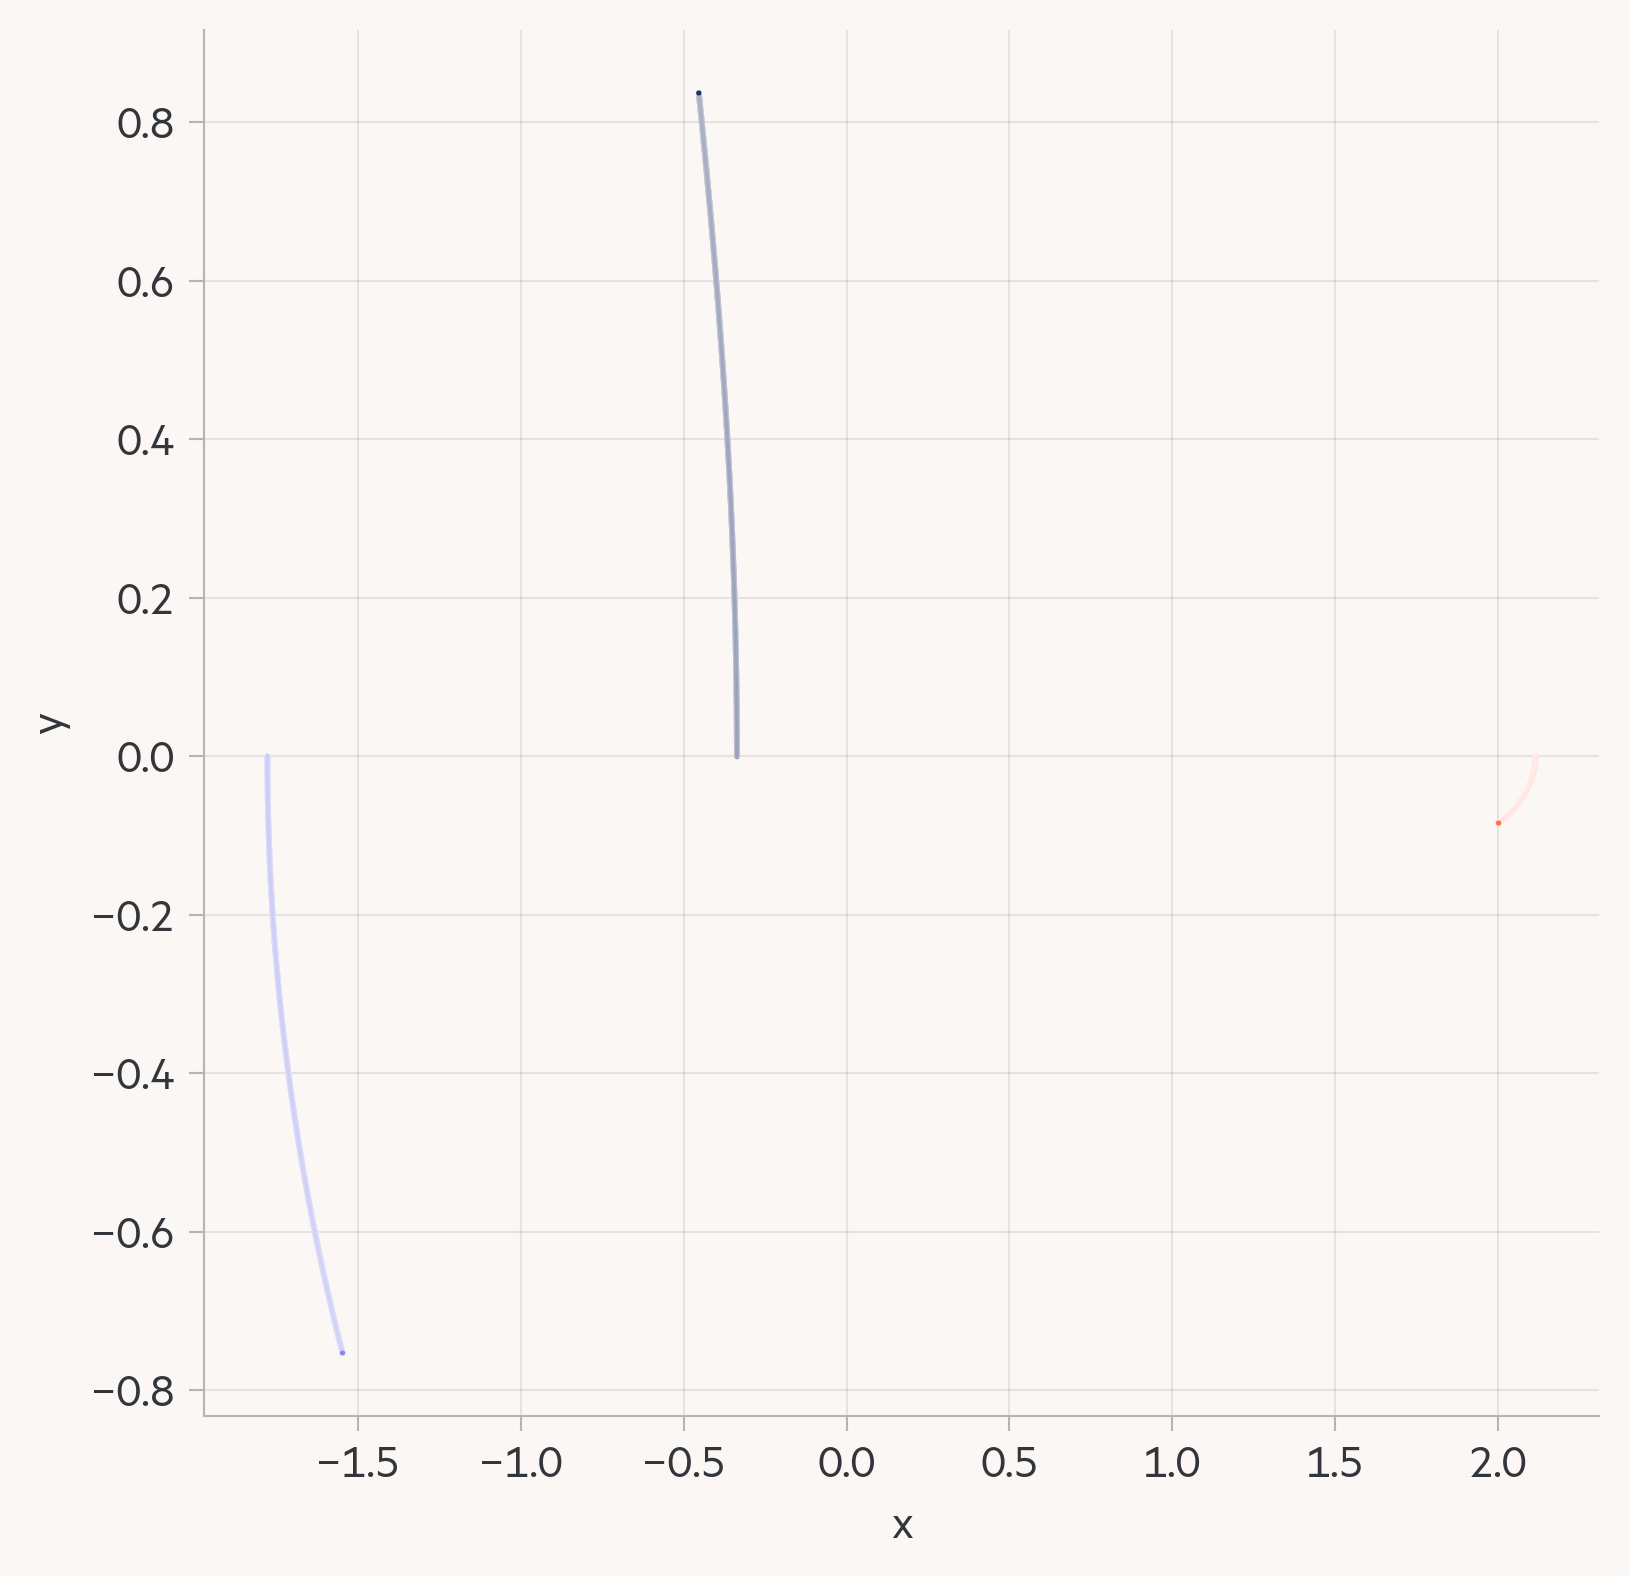
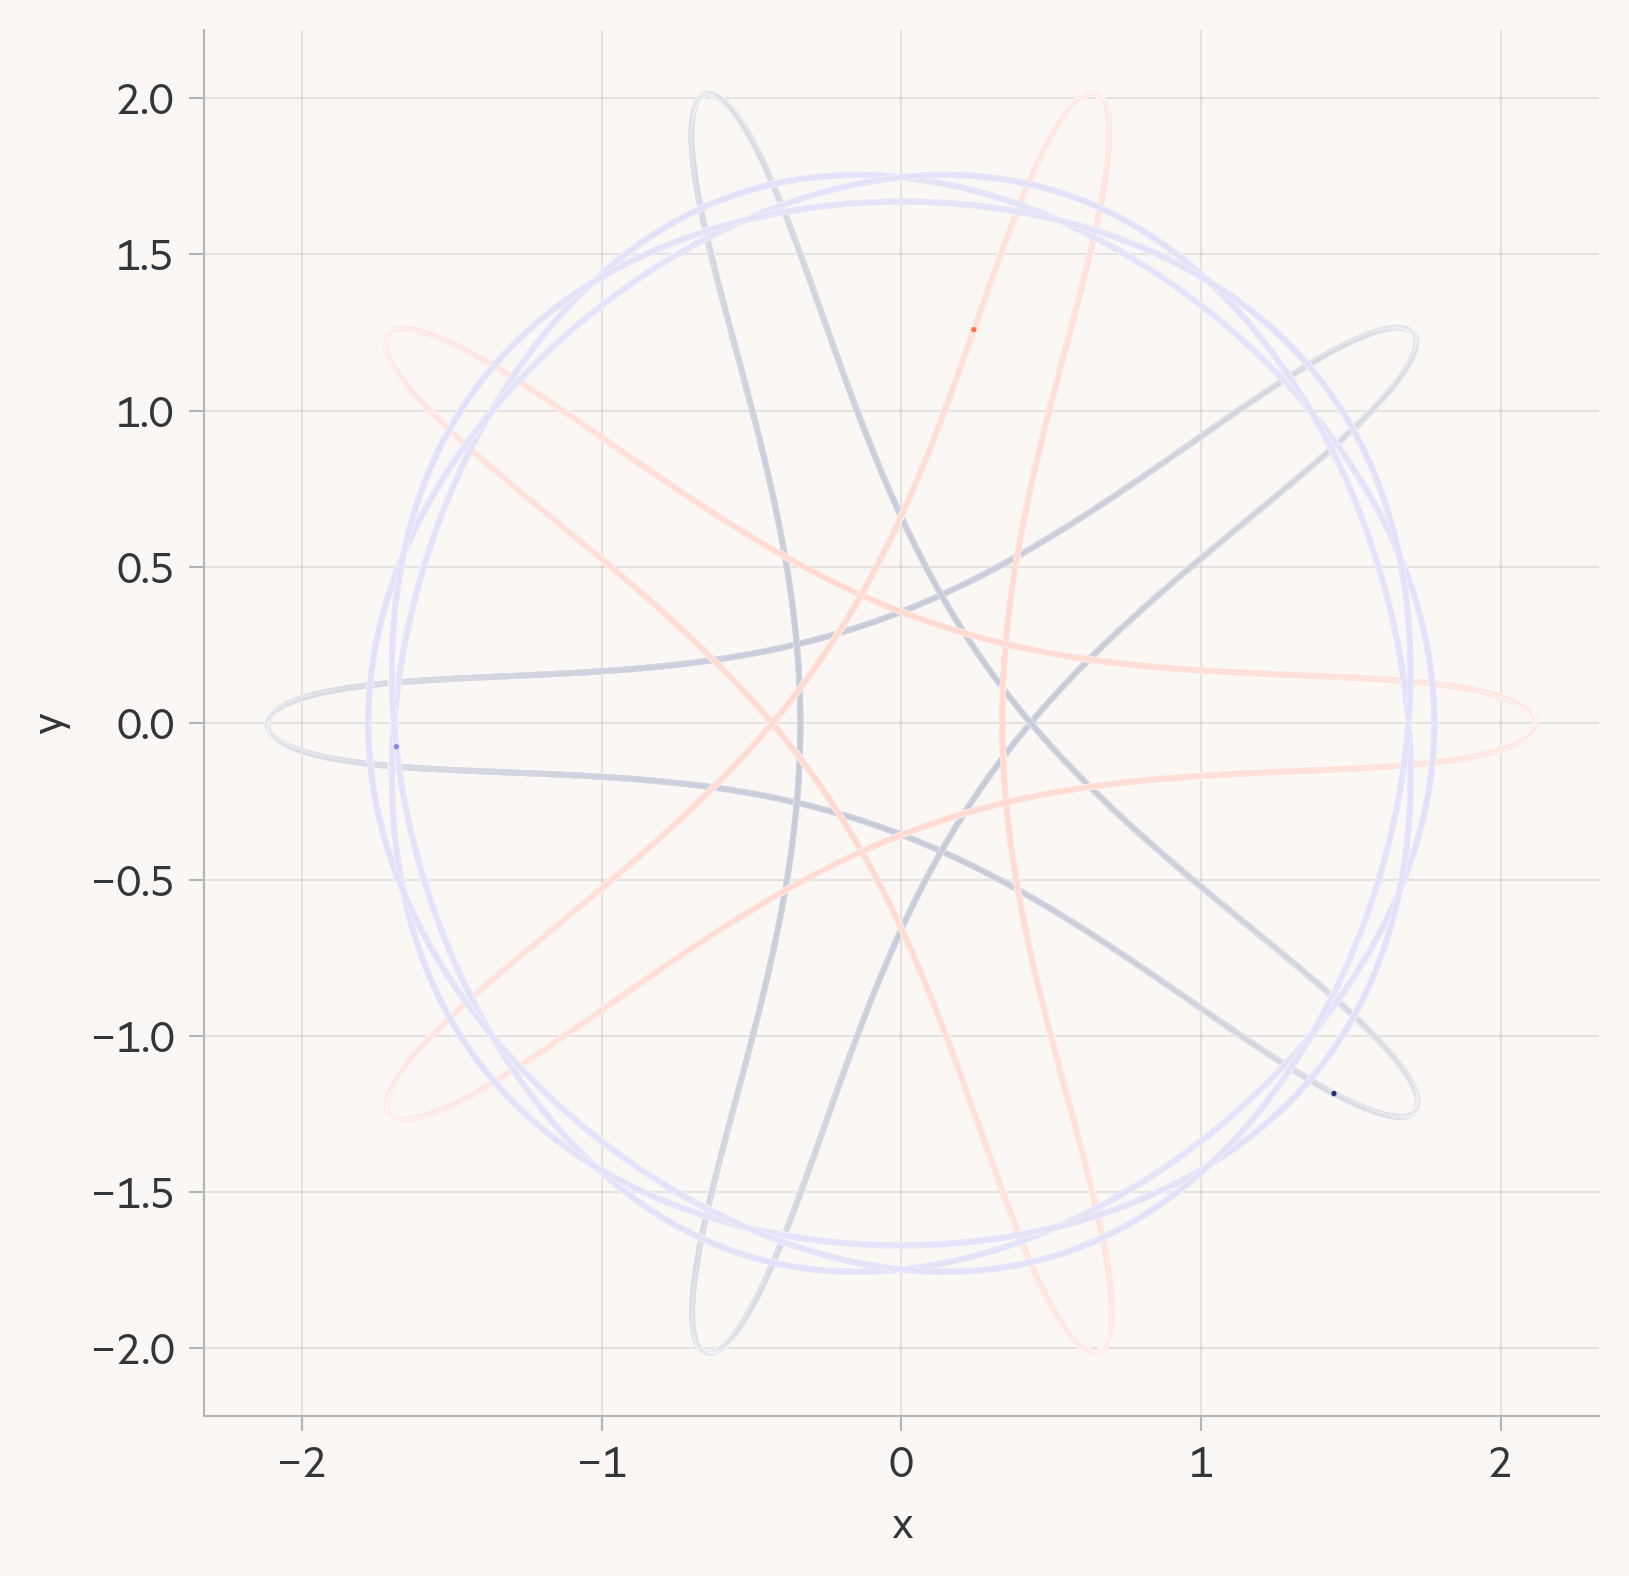
refactor animation new

diff --git a/animation_new.py b/animation_new.py
@@ -59,7 +59,7 @@ class NBodyAnimation(Scene):
         self.stars = initialise_stars(configs=position_velocity, masses=masses, G=1)
 
         self.dt = 1e-3
-        self.num_steps = 1e3
+        self.num_steps = 1e5
         self.df = self.compute()
 
         self.star_radius = 0.025
@@ -130,19 +130,19 @@ class NBodyAnimation(Scene):
 
     def construct(self):
 
-        num_samples = 100
+        num_samples = 500
         frame_time = 0.001
 
-        print(f"{num_samples}, {frame_time}s = {num_samples * frame_time} s")
+        # print(f"{num_samples}, {frame_time}s = {num_samples * frame_time} s")
 
         df = self._sample_df(self.df, num_samples=num_samples)
         df_by_star = self._get_star_df_dict(df)
-        print(df_by_star)
 
         star_names = df['star'].unique()
 
         star_objs = {}
         star_trackers: dict[str, list['ValueTracker']] = {}
+        star_traces = {}
 
         # intialise stars
         for i, star_name in enumerate(star_names):
@@ -164,18 +164,23 @@ class NBodyAnimation(Scene):
 
             star_objs[star_name] = star
 
+        # initialise the starting positions
         self.add(*[star for star in star_objs.values()])
         self.wait(0.25)
 
         for step in range(num_samples):
             args = []
             for star_name in star_names:
+                # update star positions
                 x_tracker, y_tracker = star_trackers[star_name]
                 x = df_by_star[star_name]['x'].iloc[step]
                 y = df_by_star[star_name]['y'].iloc[step]
                 args.append((x_tracker, x))
                 args.append((y_tracker, y))
 
-            self.play(
-                *[tracker.animate.set_value(val) for tracker, val in args], run_time=frame_time
-            )
+            # create animations for each star
+            star_animations = [tracker.animate.set_value(val) for tracker, val in args]
+
+            # create animation for traces
+
+            self.play(*star_animations, run_time=frame_time)
